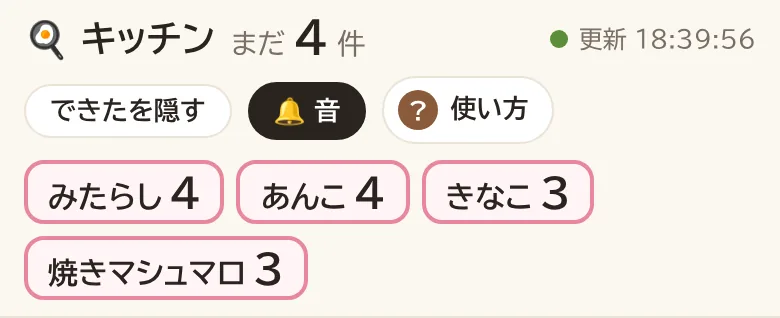
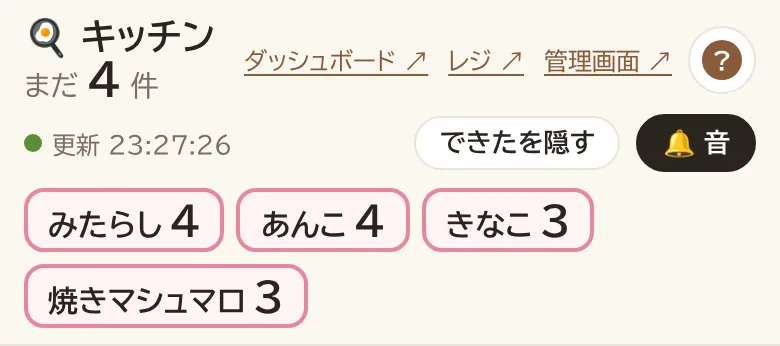
4画面の右上に、ほかの画面へのリンクを同じ位置で置く
- ダッシュボード・レジ・キッチン・管理画面の右上（使い方ボタンの左）に、今の画面以外の3画面へのリンク
  （レジにも管理画面へのリンクを追加。スタイルは help.css で共通）
- レジは担当者名をタイトルの下へ、キッチンは1行目にタイトルとリンク、2行目に通信状態と表示の切り替え
- 管理画面のタイトルを「管理画面」に短くし、スマホで使い方ボタンを ? だけに
- 管理画面の「セット」の選択がスマホで画面からはみ出していたのを修正
- キッチンのヘルプ画像を撮り直し、Service Worker の版を更新

Claude-Session: https://claude.ai/code/session_01UZ9qf5JxoP9bu9V8PunLta

diff --git a/public/kitchen.html b/public/kitchen.html
@@ -30,7 +30,11 @@
 
   /* 上の帯 */
   .bar { position: sticky; top: 0; z-index: 10; background: var(--bg); border-bottom: 1px solid var(--line); padding: 8px 12px; }
-  .bar-top { display: flex; align-items: center; gap: 8px; flex-wrap: wrap; }
+  .bar-top { display: flex; align-items: center; gap: 8px; }
+  .bar-top .tl { display: flex; align-items: baseline; gap: 8px; flex-shrink: 0; flex-wrap: wrap; }
+  .bar-top .screen-links { flex: 1; }
+  .bar-tools { display: flex; align-items: center; gap: 8px; flex-wrap: wrap; margin-top: 6px; }
+  @media (max-width: 420px) { .bar-top .help-label { display: none; } .bar-top .btn-help { padding-left: 6px; padding-right: 6px; } .bar-top .tl { flex-direction: column; gap: 0; } }
   .bar h1 { font-size: 18px; margin: 0; white-space: nowrap; }
   .count { font-size: 14px; color: var(--sub); white-space: nowrap; }
   .count b { font-size: 22px; color: var(--ink); font-variant-numeric: tabular-nums; }
@@ -121,14 +125,18 @@
 
 <div id="app" class="hidden">
   <div class="bar">
+    <!-- 1 行目：タイトルと件数／右上にほかの画面へのリンクと使い方（4 画面で同じ位置） -->
     <div class="bar-top">
-      <h1>🍳 キッチン</h1>
-      <span class="count">まだ <b id="nTodo">0</b> 件</span>
-      <span class="sp"></span>
+      <div class="tl"><h1>🍳 キッチン</h1><span class="count">まだ <b id="nTodo">0</b> 件</span></div>
+      <nav class="screen-links" aria-label="ほかの画面"><a href="/" target="_blank">ダッシュボード ↗</a><a href="/admin" target="_blank">レジ ↗</a><a href="/master" target="_blank">管理画面 ↗</a></nav>
+      <button class="btn-help" type="button" data-help-open aria-label="使い方"><span class="help-badge" aria-hidden="true">?</span><span class="help-label">使い方</span></button>
+    </div>
+    <!-- 2 行目：通信状態と表示の切り替え -->
+    <div class="bar-tools">
       <span class="net" id="net"><span class="dot"></span><span id="netText">確認中…</span></span>
+      <span class="sp"></span>
       <button class="tool" id="hideBtn" aria-pressed="false">できたを隠す</button>
       <button class="tool" id="soundBtn" aria-pressed="true">🔔 音</button>
-      <button class="btn-help" type="button" data-help-open aria-label="使い方"><span class="help-badge" aria-hidden="true">?</span>使い方</button>
     </div>
     <div class="todo" id="todo"></div>
   </div>
@@ -172,7 +180,7 @@
 
   <details>
     <summary>上のピンクの枠（味ごとの合計）は？</summary>
-    <figure class="narrow"><img src="/help/kitchen-todo.webp" width="390" height="159" loading="lazy" alt="画面上部。キッチン、まだ4件、更新時刻、できたを隠す・音・使い方のボタン、みたらし4・あんこ4・きなこ3・焼きマシュマロ3"></figure>
+    <figure class="narrow"><img src="/help/kitchen-todo.webp" width="390" height="173" loading="lazy" alt="画面上部。キッチン、まだ4件、右上にダッシュボード・レジ・管理画面へのリンクと使い方のボタン、その下に更新時刻、できたを隠す・音のボタン、みたらし4・あんこ4・きなこ3・焼きマシュマロ3"></figure>
     <p>「まだ ○件」は、まだ「できた」にしていない注文の数です。ピンクの枠は、それらの注文を<b>味ごとに足した本数</b>です。まとめて焼くときや、タレの準備の目安にしてください。「できた」にすると、その分が減ります。</p>
   </details>
 

diff --git a/public/master.html b/public/master.html
@@ -26,9 +26,9 @@
   button { cursor: pointer; border: none; }
   .wrap { max-width: 720px; margin: 0 auto; padding: 16px 14px 48px; }
   .top { display: flex; justify-content: space-between; align-items: center; margin-bottom: 12px; gap: 8px; }
-  .top h1 { font-size: 20px; margin: 0; }
-  .top .links { display: flex; align-items: center; flex-wrap: wrap; justify-content: flex-end; gap: 4px 0; }
-  .top .links a { font-size: 13px; color: var(--brown); margin-left: 10px; }
+  .top h1 { font-size: 20px; margin: 0; white-space: nowrap; flex-shrink: 0; }
+  @media (max-width: 420px) { .top h1 { font-size: 17px; } .top .help-label { display: none; } .top .btn-help { padding-left: 6px; padding-right: 6px; } }
+  .top .links { display: flex; align-items: center; justify-content: flex-end; gap: 10px; min-width: 0; }
   .card { background: var(--card); border: 1px solid var(--line); border-radius: 14px; padding: 16px; margin-bottom: 12px; }
   h2 { font-size: 15px; margin: 0 0 10px; }
   .note { color: var(--sub); font-size: 12px; margin-top: 6px; line-height: 1.6; }
@@ -72,6 +72,8 @@
   .flv-edit input { display: block; width: 100%; margin-top: 4px; color: var(--ink); }
   .checks label { display: flex; gap: 6px; align-items: center; }
   .checks select { padding: 6px; font-size: 14px; border: 1px solid var(--line); border-radius: 8px; font-family: inherit; max-width: 100%; }
+  .checks label.bundle { width: 100%; min-width: 0; }
+  .checks label.bundle select { flex: 1; min-width: 0; width: 100%; }
   .pactions { display: flex; gap: 6px; flex-wrap: wrap; align-items: center; }
   .pactions .sp { flex: 1; }
   .dirty-badge { font-size: 11px; color: #9a5b00; background: #fde7c8; padding: 2px 7px; border-radius: 10px; }
@@ -105,8 +107,8 @@
 
 <div id="app" class="wrap hidden">
   <div class="top">
-    <h1>🔐 団子レジ 管理画面</h1>
-    <div class="links"><button class="btn-help" type="button" data-help-open><span class="help-badge" aria-hidden="true">?</span>使い方</button><a href="/admin" target="_blank">レジ ↗</a><a href="/" target="_blank">ダッシュボード ↗</a></div>
+    <h1>🔐 管理画面</h1>
+    <div class="links"><nav class="screen-links" aria-label="ほかの画面"><a href="/" target="_blank">ダッシュボード ↗</a><a href="/admin" target="_blank">レジ ↗</a><a href="/kitchen" target="_blank">キッチン ↗</a></nav><button class="btn-help" type="button" data-help-open aria-label="使い方"><span class="help-badge" aria-hidden="true">?</span><span class="help-label">使い方</span></button></div>
   </div>
 
   <section class="card">

diff --git a/public/admin.html b/public/admin.html
@@ -40,8 +40,9 @@
   .top a { font-size: 13px; color: var(--brown); }
   .top { gap: 8px; }
   .top h1 { flex-shrink: 0; white-space: nowrap; }
-  #staffLabel { flex: 1; min-width: 0; font-size: 12px; color: var(--sub); white-space: nowrap; overflow: hidden; text-overflow: ellipsis; }
-  #dashLink { flex-shrink: 0; white-space: nowrap; font-size: 12px; }
+  .top .tl { flex-shrink: 0; min-width: 0; max-width: 45%; }
+  #staffLabel { display: block; font-size: 12px; color: var(--sub); white-space: nowrap; overflow: hidden; text-overflow: ellipsis; }
+  .top .screen-links { flex: 1; }
   .top .btn-help { flex-shrink: 0; }
   @media (max-width: 420px) { .top .help-label { display: none; } .top .btn-help { padding-left: 6px; padding-right: 6px; } }
 
@@ -273,9 +274,8 @@
 
 <div id="app" class="wrap hidden">
   <div class="top">
-    <h1>🍡 団子レジ</h1>
-    <span id="staffLabel"></span>
-    <a id="dashLink" href="/" target="_blank">ダッシュボード ↗</a>
+    <div class="tl"><h1>🍡 団子レジ</h1><span id="staffLabel"></span></div>
+    <nav class="screen-links" aria-label="ほかの画面"><a href="/" target="_blank">ダッシュボード ↗</a><a href="/kitchen" target="_blank">キッチン ↗</a><a href="/master" target="_blank">管理画面 ↗</a></nav>
     <button class="btn-help" type="button" data-help-open aria-label="使い方"><span class="help-badge" aria-hidden="true">?</span><span class="help-label">使い方</span></button>
   </div>
 

diff --git a/public/index.html b/public/index.html
@@ -29,7 +29,7 @@
   }
   .wrap { max-width: 720px; margin: 0 auto; padding: 20px 16px 40px; }
   header { position: relative; text-align: center; margin-bottom: 16px; }
-  header .btn-help { position: absolute; top: 0; right: 0; }
+  header .head-right { display: flex; justify-content: flex-end; align-items: center; gap: 10px; margin-bottom: 6px; }
   header .sub { font-size: 14px; color: var(--sub); }
   header h1 { margin: 2px 0 0; font-size: 34px; letter-spacing: .1em; }
   .dango { display: inline-flex; gap: 4px; vertical-align: middle; margin-right: 8px; }
@@ -138,7 +138,7 @@
 <body>
 <div class="wrap">
   <header>
-    <button class="btn-help" type="button" data-help-open><span class="help-badge" aria-hidden="true">?</span>見方</button>
+    <div class="head-right"><nav class="screen-links" aria-label="ほかの画面"><a href="/admin" target="_blank">レジ ↗</a><a href="/kitchen" target="_blank">キッチン ↗</a><a href="/master" target="_blank">管理画面 ↗</a></nav><button class="btn-help" type="button" data-help-open><span class="help-badge" aria-hidden="true">?</span>見方</button></div>
     <div class="sub" id="shopSub">混声合唱と学祭のための</div>
     <h1><span class="dango"><i></i><i></i><i></i></span>団子</h1>
   </header>

diff --git a/public/help.css b/public/help.css
@@ -141,3 +141,23 @@
   font-size: 12px;
   color: var(--sub);
 }
+
+/* ── ほかの画面へのリンク（4画面の右上で共通） ───────────── */
+.screen-links {
+  display: flex;
+  flex-wrap: wrap;
+  justify-content: flex-end;
+  align-items: center;
+  gap: 2px 12px;
+  min-width: 0;
+  font-size: 13px;
+  line-height: 1.5;
+}
+.screen-links a {
+  color: var(--brown, #8a5a3b);
+  white-space: nowrap;
+  text-decoration: underline;
+  text-underline-offset: 2px;
+}
+.screen-links a:active { opacity: .6; }
+@media (max-width: 420px) { .screen-links { font-size: 12px; gap: 0 10px; } }

diff --git a/public/sw.js b/public/sw.js
@@ -6,7 +6,7 @@
  * - ネットワーク優先：つながれば最新を表示してキャッシュも更新、つながらない（または遅い）ときだけキャッシュを使う。
  * - アプリを更新したら VERSION を変える。新しい版が入ると古いキャッシュは消える。
  */
-const VERSION = '2026-11-02-6';
+const VERSION = '2026-11-02-7';
 const CACHE = 'mogiten-register-' + VERSION;
 const FONT_CACHE = 'mogiten-fonts-v1';      // Web フォント（版をまたいで使い回す）
 const SHELL = ['/admin', '/pricing.js', '/help.css', '/help.js'];

diff --git a/README.md b/README.md
@@ -147,6 +147,7 @@
 - **売上記録の全リセット（テスト用）**: 取消済みも含めたすべての会計を削除し、会計番号を #1 に戻す。「リセット」の入力とマスターパスワードの再入力が必要。リセット前にレジ端末にたまっていた未送信の会計は、あとで届いても記録されずに破棄される（売上記録の世代番号 `sales_epoch` で判定）。元に戻せないので、本番の営業が始まったら使わない
 
 **ヘルプ**
+- 4画面とも、右上に **ほかの画面へのリンク**（ダッシュボード・レジ・キッチン・管理画面のうち、今の画面以外。新しいタブで開く）を同じ位置に置いています
 - 4画面とも、画面上部の「?使い方」（ダッシュボードは「?見方」、幅の狭いスマホのレジは「?」だけ）ボタンで、スクリーンショットつきの使い方とよくある質問を表示します（レジ・管理画面・キッチンはログイン画面からも開けます）
 - レジのヘルプは電波がなくても開けます（Service Worker で help.css / help.js と、一度表示した画像をキャッシュ）
 
